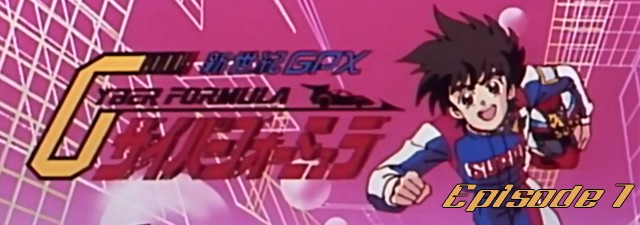
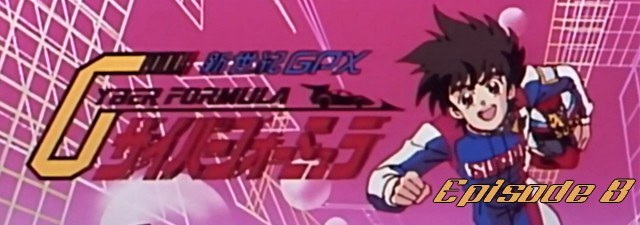
new release

Changed region(s): [[0.6562, 0.7778, 1.0, 0.9644]]

diff --git a/2015-01-04.html b/2015-01-04.html
@@ -1,0 +1,102 @@
+<!DOCTYPE html>
+<html lang="fr-FR">
+	<head>
+		<title>Future GPX Cyber Formula 08 vostfr | Nobluesky Fansub</title>
+		<meta charset="utf-8" />
+		<link rel="Shortcut Icon" type="image/x-icon" href="favicon.ico" />
+		<link href="fonts/fonts.css" rel="stylesheet" type="text/css" />
+		<link href="style.css" rel="stylesheet" type="text/css" media="screen" />
+		<link rel="stylesheet" href="menu.css" type="text/css" />
+		<script src="jquery.js" type="text/javascript"></script>
+		<script src="background-script.js" type="text/javascript"></script>
+	</head>
+<body>
+<div class="banner">
+	<a title="Nobluesky Fansub" href="index.html"> <img class="banner" alt="Nobluesky Fansub" title="Nobluesky Fansub" src="images/banner.png"/> </a>
+</div>
+<!-- end banner -->
+<div id="menu-wrapper">
+	<div id="menu">
+		<script type="text/javascript">
+		$( '#menu' ).load( 'menu.html' );
+		</script>
+		<noscript>Activez javascript pour voir le menu!</noscript>
+	</div>
+</div>
+<!-- end #menu -->
+<div id="page-wrapper">
+<div id="sidebar-wrapper">
+	<div id="sidebar">
+		<script type="text/javascript">
+		$( '#sidebar' ).load( 'sidebar.html' );
+		</script>
+	</div>
+	<!-- end #sidebar -->
+</div>
+	<div id="article">
+		<div id="content">
+			<div class="post">
+				<h1 class="title">Future GPX Cyber Formula 08 vostfr</h1>
+				<p class="meta"><span class="date">4 Janvier 2015</span><span class="posted">Posté par <a href="about.html#nobluesky">Nobluesky</a></span></p>
+				<div style="clear: both;">&nbsp;</div>
+				<div class="entry">
+					<img class="post-images" src="images/2015/news1.jpg" alt="" />
+					<p>Salut tout le monde!</p>
+					<p>Après avoir bien mangé pendant les fêtes (du moins j'espère pour vous que c'était pas des marrons bien lourds!), quoi de mieux que de rester regarder des animés au fond du canapé?</p>
+					<p>Voici un nouvel épisode de votre série préférée, le premier en cette année 2015.</p>
+					<p>Nous arrivons au dénouement de la finale du Grand Prix du Japon. Hayato a fort à faire avec les éléments et les autres pilotes. Va-t-il arriver à finir cette course?</p>
+					<p>Bon visionnage!</p>
+					<h3>Téléchargements et streaming</h3>
+					<p class="links dl"><a href="http://www.jheberg.net/captcha/nobluesub-future-gpx-cyber-formula-08/" class="button-dl">Jheberg</a></p>&nbsp; | &nbsp;
+					<p class="links dl"><a href="http://rutube.ru/video/0e54cbd6760f9f0db62997ab5ec778c2/" class="button-dl">Rutube</a></p>&nbsp; | &nbsp;
+					<p class="links dl"><a href="https://mega.co.nz/#!eA0RzY4Q!ETFw5tDUtvxiQT0XEzS0nWjqO_VwheohrVLD6f8J4iA" class="button-dl">Mega</a></p>
+					<h3>Commentaires</h3>
+					<div id="disqus_thread"></div>
+					<script type="text/javascript">
+						/* * * CONFIGURATION VARIABLES: EDIT BEFORE PASTING INTO YOUR WEBPAGE * * */
+						var disqus_shortname = 'noblueskyfansub'; // required: replace example with your forum shortname
+
+						/* * * DON'T EDIT BELOW THIS LINE * * */
+						(function() {
+							var dsq = document.createElement('script'); dsq.type = 'text/javascript'; dsq.async = true;
+							dsq.src = '//' + disqus_shortname + '.disqus.com/embed.js';
+							(document.getElementsByTagName('head')[0] || document.getElementsByTagName('body')[0]).appendChild(dsq);
+						})();
+					</script>
+					<noscript>Activez javascript pour voir les commentaires.</noscript>
+					<a href="http://disqus.com" class="dsq-brlink">commentaires propulsés par <span class="logo-disqus">Disqus</span></a>
+				</div>
+			</div>
+			<div style="clear: both;">&nbsp;</div>
+		</div>
+		<!-- end #content -->
+		<div style="clear: both;">&nbsp;</div>
+	</div>
+</div>
+<!-- end #page -->
+<script type="text/javascript">
+$(window).scroll(function() {
+    if ($(this).scrollTop() < 1000) {
+        $("#footer").hide();
+    }
+    else {
+        $("#footer").show();
+    }
+});
+$(window).scroll(function() {
+  if ($(this).scrollTop() < 1000) {
+    $("footer").slideUp();
+      }
+  else {
+    $("footer").slideDown();
+      }
+});		
+</script>
+<div id="footer">
+	<script type="text/javascript">
+	$( '#footer' ).load( 'footer.html' );
+	</script>
+</div>
+<!-- end #footer -->
+</body>
+</html>

diff --git a/index.html b/index.html
@@ -35,7 +35,7 @@
 		<div id="slider" class="nivoSlider">
 			<img src="images/img03.jpg" alt="" />
 			<a href="http://stream.nobluesub.com"><img src="images/img02.jpg" alt="" /></a>
-			<a href="2014-12-25.html"><img src="images/img01.jpg" alt="" /></a>
+			<a href="2015-01-04.html"><img src="images/img01.jpg" alt="" /></a>
 		</div>
 	</div>
 <script type="text/javascript">
@@ -60,6 +60,20 @@
 				<div style="clear: both;">&nbsp;</div>
 				<div class="entry">
 					<p>Bienvenue sur le site de la Nobluesky Fansub!</p>
+				</div>
+			</div>
+			<div class="post">
+				<h1 class="title"><a href="2015-01-04.html">Future GPX Cyber Formula 08 vostfr</a></h1>
+				<p class="meta"><span class="date">4 Janvier 2015</span><span class="posted">Posté par <a href="about.html#nobluesky">Nobluesky</a></span></p>
+				<p><a href="http://nobluesub.com/2015-01-04.html#disqus_thread">Commentaires</a></p>
+				<div style="clear: both;">&nbsp;</div>
+				<div class="entry">
+					<img class="post-images" src="images/2015/news1.jpg" alt="" />
+					<p>Salut tout le monde!</p>
+					<p>Après avoir bien mangé pendant les fêtes (du moins j'espère pour vous que c'était pas des marrons bien lourds!), quoi de mieux que de rester regarder des animés au fond du canapé?</p>
+					<p>Voici un nouvel épisode de votre série préférée, le premier en cette année 2015.</p>
+					<p>Nous arrivons au dénouement de la finale du Grand Prix du Japon. Hayato a fort à faire avec les éléments et les autres pilotes....</p>
+					<p class="links"><a href="2015-01-04.html" class="button">Lire la suite</a></p>
 				</div>
 			</div>
 			<div class="post">
@@ -116,20 +130,6 @@
 					<p>Sinon vous ne seriez pas là, à venir dans l'antre de Nobluesky!!</p>
 					<p>Voici donc la suite de la course de Fujioka : c'est la course finale, qui fait suite au contre-la-montre miraculeusement réussi par Hayato. Mais la nature de cette course est différente...</p>
 					<p class="links"><a href="2014-09-07.html" class="button">Lire la suite</a></p>
-				</div>
-			</div>
-			<div class="post">
-				<h1 class="title"><a href="2014-08-28.html">Future GPX Cyber Formula 03 vostfr</a></h1>
-				<p class="meta"><span class="date">28 Août 2014</span><span class="posted">Posté par <a href="about.html#nobluesky">Nobluesky</a></span></p>
-				<p><a href="http://nobluesub.com/2014-08-28.html#disqus_thread">Commentaires</a></p>
-				<div style="clear: both;">&nbsp;</div>
-				<div class="entry">
-					<img class="post-images" src="images/2014/news4.jpg" alt="" />
-					<p>Bonjour à tous!</p>
-					<p>Vous allez vous en apercevoir au fil du temps, je ne suis pas un newseur très inspiré alors je préfère faire court que de raconter ma vie! J'espère que vous ne m'en voudrez pas ^_^</p>
-					<p>Dans ce troisième épisode, nous assistons à la fin des qualifications de Fujioka. Hayato arrivera-t-il à se qualifier sans expérience de pilote? Ses compétences ne sont pas forcément celles qu'il pense être utiles...</p>
-					<p style="color:red;" >Edit : Version corrigée, quelques erreurs s'étaient glissées dans l'episode.</p>
-					<p class="links"><a href="2014-08-28.html" class="button">Lire la suite</a></p>
 				</div>
 			</div>
 			<div style="clear: both;">&nbsp;</div>

diff --git a/page2.html b/page2.html
@@ -33,7 +33,7 @@
 		<div id="slider" class="nivoSlider">
 			<img src="images/img03.jpg" alt="" />
 			<a href="http://stream.nobluesub.com"><img src="images/img02.jpg" alt="" /></a>
-			<a href="2014-12-25.html"><img src="images/img01.jpg" alt="" /></a>
+			<a href="2015-01-04.html"><img src="images/img01.jpg" alt="" /></a>
 		</div>
 	</div>
 <script type="text/javascript">
@@ -52,6 +52,20 @@
 </div>
 	<div id="feed">
 		<div id="content">
+			<div class="post">
+				<h1 class="title"><a href="2014-08-28.html">Future GPX Cyber Formula 03 vostfr</a></h1>
+				<p class="meta"><span class="date">28 Août 2014</span><span class="posted">Posté par <a href="about.html#nobluesky">Nobluesky</a></span></p>
+				<p><a href="http://nobluesub.com/2014-08-28.html#disqus_thread">Commentaires</a></p>
+				<div style="clear: both;">&nbsp;</div>
+				<div class="entry">
+					<img class="post-images" src="images/2014/news4.jpg" alt="" />
+					<p>Bonjour à tous!</p>
+					<p>Vous allez vous en apercevoir au fil du temps, je ne suis pas un newseur très inspiré alors je préfère faire court que de raconter ma vie! J'espère que vous ne m'en voudrez pas ^_^</p>
+					<p>Dans ce troisième épisode, nous assistons à la fin des qualifications de Fujioka. Hayato arrivera-t-il à se qualifier sans expérience de pilote? Ses compétences ne sont pas forcément celles qu'il pense être utiles...</p>
+					<p style="color:red;" >Edit : Version corrigée, quelques erreurs s'étaient glissées dans l'episode.</p>
+					<p class="links"><a href="2014-08-28.html" class="button">Lire la suite</a></p>
+				</div>
+			</div>
 			<div class="post">
 				<h1 class="title"><a href="2014-08-13.html">Future GPX Cyber Formula 02 vostfr</a></h1>
 				<p class="meta"><span class="date">13 Août 2014</span><span class="posted">Posté par <a href="about.html#nobluesky">Nobluesky</a></span></p>

diff --git a/future-gpx-cyber-formula.html b/future-gpx-cyber-formula.html
@@ -82,6 +82,11 @@
 					<p class="links dl"><a href="http://www.jheberg.net/captcha/nobluesub-future-gpx-cyber-formula-07/" class="button-dl">Jheberg</a></p>&nbsp; | &nbsp;
 					<p class="links dl"><a href="http://rutube.ru/video/01a3755467c5de83879a065d8cf481bb/" class="button-dl">Rutube</a></p>&nbsp; | &nbsp;
 					<p class="links dl"><a href="https://mega.co.nz/#!KUVF0TCQ!1Q1UMmJV3Ihddwyi4z58drTY_q8u96nlDwO27LQJUs8" class="button-dl">Mega</a></p>
+					<br>
+					Episode 8 : 
+					<p class="links dl"><a href="http://www.jheberg.net/captcha/nobluesub-future-gpx-cyber-formula-08/" class="button-dl">Jheberg</a></p>&nbsp; | &nbsp;
+					<p class="links dl"><a href="http://rutube.ru/video/0e54cbd6760f9f0db62997ab5ec778c2/" class="button-dl">Rutube</a></p>&nbsp; | &nbsp;
+					<p class="links dl"><a href="https://mega.co.nz/#!eA0RzY4Q!ETFw5tDUtvxiQT0XEzS0nWjqO_VwheohrVLD6f8J4iA" class="button-dl">Mega</a></p>
 				</div>
 			</div>
 			<div style="clear: both;">&nbsp;</div>

diff --git a/sidebar.html b/sidebar.html
@@ -23,9 +23,9 @@
 		<li>
 			<h2>Avancements</h2>
 			<ul>
-				<li>Future GPX Cyber Formula 08 : 75%
+				<li>Future GPX Cyber Formula 08 : 100%
 					<div class="progress-bar blue stripes">
-					<span style="width: 75%"></span>
+					<span style="width: 100%"></span>
 					</div>
 				</li>
 			</ul>
